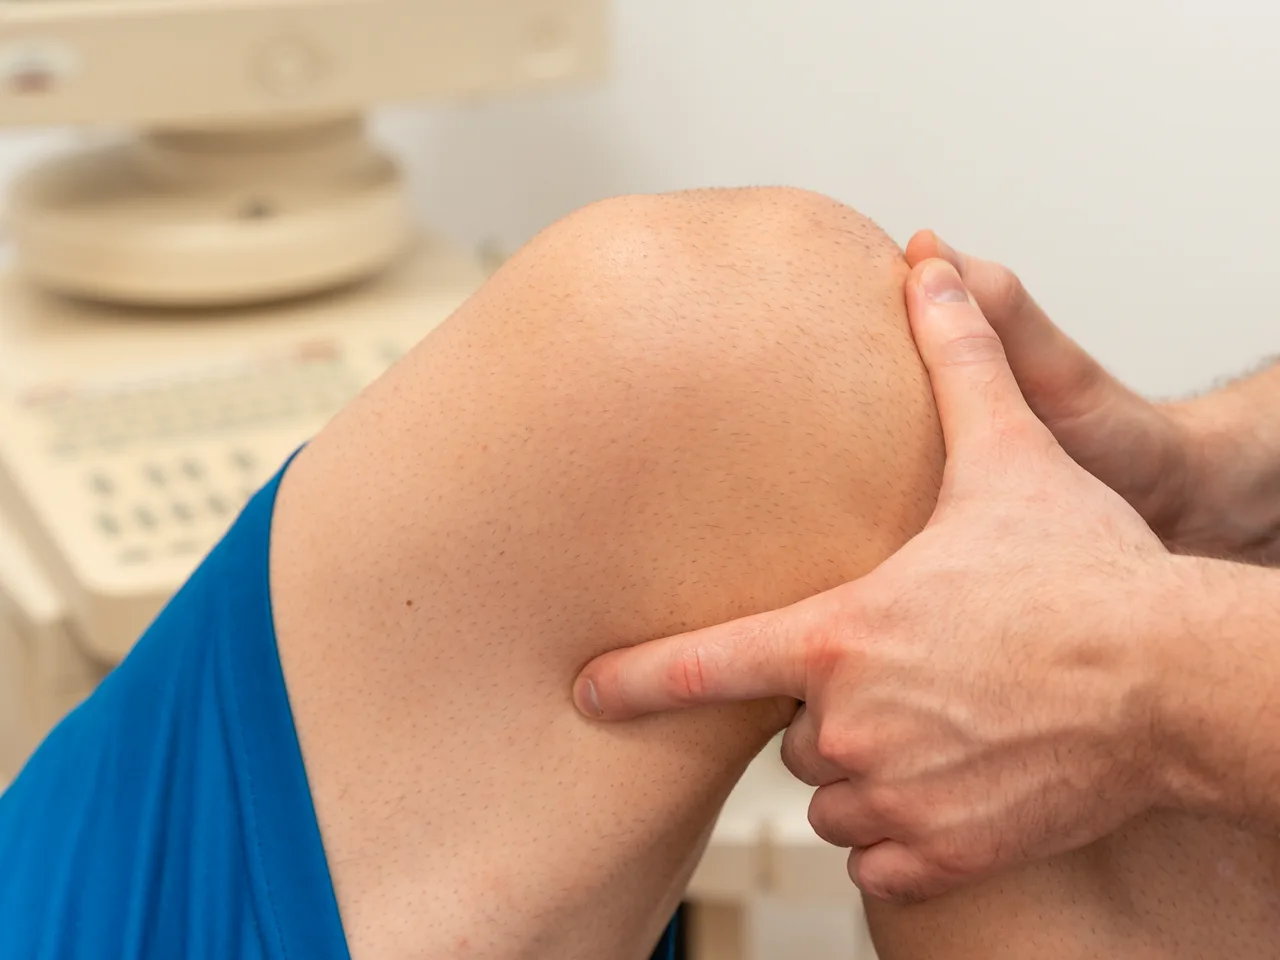
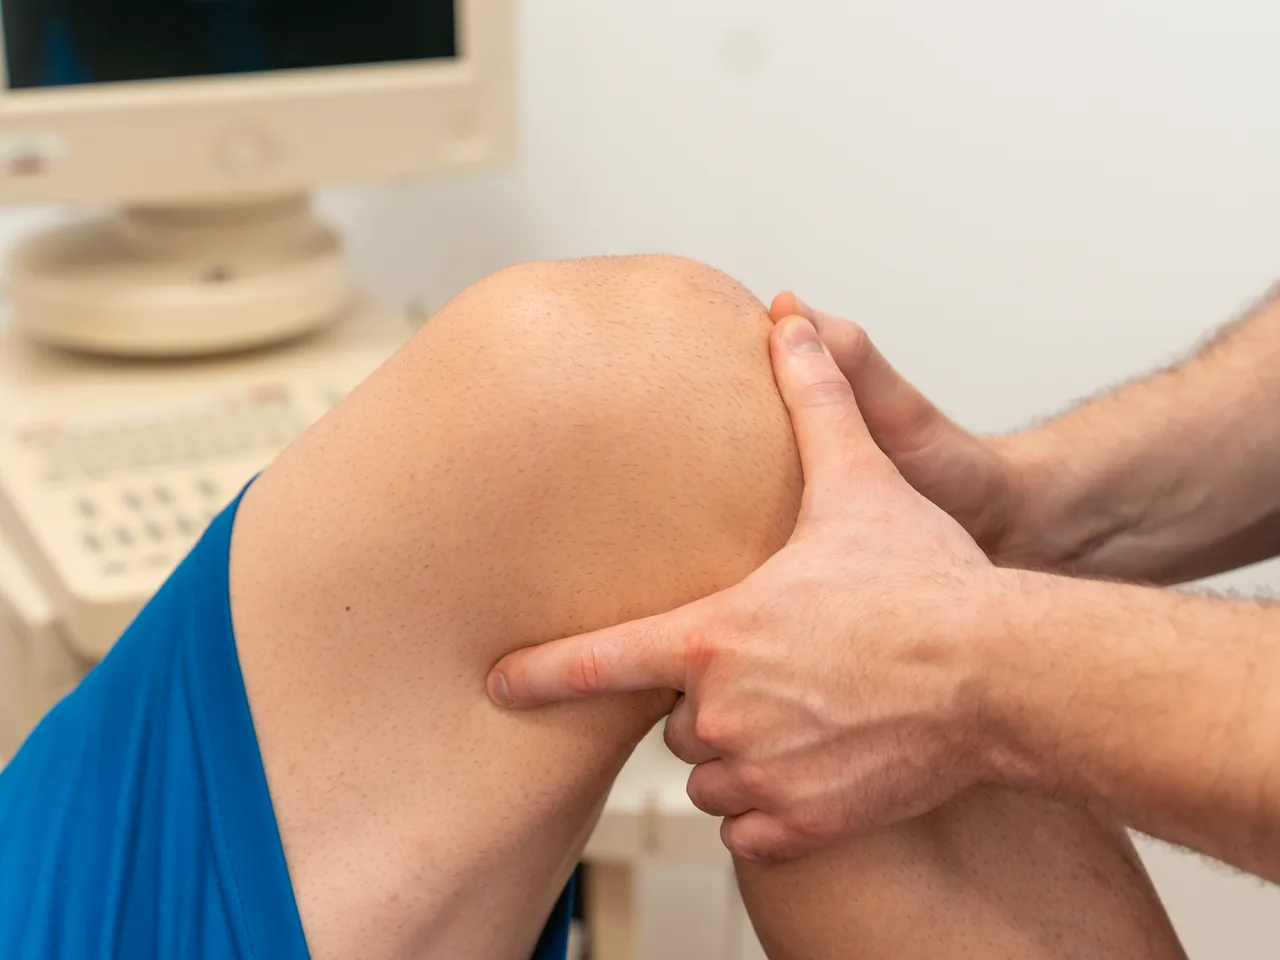
v15: panel dijagnostike na pun kadar, ispravke u README-u
panel-dijagnostika.webp preseceno iz punog kadra L-40 (4000 px) umesto
uzeg isecka od 3400 px. Provereno u kartici na 1440, 1200, 860 i 390 px.

Ispravljen razlog za "Sedam procedura" -> "Sest procedura": nije u tome
sta centar radi, nego u tome da naslov broji magnetoterapiju koje nema
od v14, a sedmu karticu ("Ne morate da znate", poziv na akciju) broji
kao proceduru.

Zapisano odakle su dosle pogresne dimenzije na panelu (SEO faza 0,
width/height procitani sa diska bez provere da JS menja src) i kako se
kartica panela ponasa po sirinama: odnos ide od 0,75 do 1,51, pa se od
slike vidi izmedju 56% i 98%.

diff --git a/v15/README.md b/v15/README.md
@@ -3589,10 +3589,16 @@ hero te iste stranice.
 
 ### Dve greške nađene usput
 
-**1. Naslov je tvrdio sedam procedura, a ima ih šest.** `v13` je imao karticu
-Magnetoterapija, `v14` ju je uklonio, naslov je ostao. Klijent je potvrdio da
-centar **ne radi magnetoterapiju**, pa je naslov promenjen u
-„**Šest procedura.**" Kartica se ne vraća.
+**1. Naslov je tvrdio sedam procedura, a ima ih šest.** U mreži zaista stoji
+sedam `<article class="method">`, ali sedma („Ne morate da znate") je **poziv
+na akciju, ne procedura** — stvarnih procedura ima šest. Naslov je napisan dok
+je sedma kartica bila **Magnetoterapija**. Klijent je tražio da se izbaci,
+kartica je uklonjena u `v14`, a naslov nije prepravljen uz nju — pa je netačna
+brojka stajala i u `v14` i u `v15`. Sada je „**Šest procedura.**"
+
+Brojka, dakle, nije pala zato što centar ne radi magnetoterapiju; pala je zato
+što je naslov ostao da broji karticu koje odavno nema, a sedmu karticu koja
+postoji broji kao proceduru iako to nije. Kartica se ne vraća.
 
 **2. Pregled panela na naslovnoj nije se poklapao sa aktivnom stavkom.**
 `activateService` u `app.js` izlazi odmah ako stavka već ima `is-active`, pa
@@ -3602,6 +3608,49 @@ drugu stavku i nazad prikazao bi `panel-dijagnostika.webp`. Uz to je `<img>`
 deklarisao `width="1280" height="1600"` (4:5), a **sve** panel slike su 4:3 —
 pa je okvir menjao odnos čim JS zameni sliku. Sada početni `src`, `alt` i
 dimenzije odgovaraju aktivnoj stavci (`panel-dijagnostika.webp`, 1280×960).
+
+**Odakle pogrešne dimenzije:** `width` i `height` su na taj `<img>` dodati u
+**SEO fazi 0**, zbog CLS-a, i pročitani iz fajla koji je tada stajao u `src`-u
+— bez provere da JS tu sliku menja u letu. Atribut je zato opisivao samo prvu
+sliku, ne i one koje dolaze posle nje. Pouka: pre nego što se `width`/`height`
+prepišu sa diska, proveri da li išta menja `src` u toku rada stranice.
+
+### Kartica panela menja odnos sa širinom — slika mora da to preživi
+
+Izmereno na šest širina. Kartica nije samo manja ili veća: ona se **preokreće
+iz uspravne u položenu**, pa `object-fit: cover` odseca čas bokove, čas vrh i
+dno.
+
+| Širina | Kartica | Odnos | Od slike se vidi |
+|---|---|---|---|
+| 1440 | 669×752 | 0,89 | 67% širine |
+| **1200** | 566×752 | **0,75** | **56% širine** ← najuže |
+| 1000 | 920×608 | 1,51 | 88% visine |
+| **860** | 791×608 | **1,30** | **98% širine** ← najšire |
+| 720 | 680×496 | 1,37 | 97% visine |
+| 390 | 350×432 | 0,81 | 61% širine |
+
+Odnos ide od 0,75 do 1,51 — **duplo**. Zato se slika za ovaj panel ne bira po
+tome kako izgleda na 1440.
+
+**Šta iz toga sledi za sadržaj slike:** `cover` seče **simetrično oko centra**.
+Sve što treba da se vidi na svakoj širini mora da stane u **srednjih 56%**
+širine slike. Predmet uz ivicu kadra nestaje prvi.
+
+Isprobana su četiri isečka iz `L-40`, svaki renderovan u kartici: 3400 px,
+3800 px, 4000 px (pun kadar) i jedan uži kod koga je desna strana odsečena da
+bi se aparat pomerio ka sredini. **Na 1200 sva četiri izgledaju isto** — od
+ultrazvučnog aparata ostaje bleda mrlja gore levo. Razlog je što aparat u
+`L-40` stoji uz samu levu ivicu, pa ga svaki simetričan rez pojede; uži isečak
+ga ne spasava nego samo uveća koleno.
+
+Uzet je **pun kadar (4000 px)**: na 860, 1000 i 720 px aparat se vidi ceo, na
+1440 delimično, a na 1200 i 390 ne vidi se ni kod jedne varijante — pa tu ništa
+i ne gubi u odnosu na uže isečke. Kartica na tim širinama nosi krupan plan
+kolena sa rukama terapeuta, što je i dalje tačan prikaz pregleda.
+
+Ako se ikad bude tražilo da se aparat vidi i na 1200, to se ne rešava isecanjem
+nego **drugim kadrom** — treba snimak na kome aparat stoji bliže sredini.
 
 ### Tri prazne kartice ostaju prazne
 

diff --git a/v15/NASTAVAK.md b/v15/NASTAVAK.md
@@ -91,9 +91,11 @@ dobilo nove isečke (`L-40`, `L-38`, `L-8`, `L-45`, `L-64`); pun spisak sa
 izvorima je u `README.md`, odeljak „Fotografije uslužnih stranica iz
 originala".
 
-Usput ispravljeno: naslov „Sedam procedura" → „**Šest procedura**" (klijent
-potvrdio da magnetoterapije nema), i početna slika pregleda panela na
-naslovnoj koja se nije poklapala sa aktivnom stavkom.
+Usput ispravljeno: naslov „Sedam procedura" → „**Šest procedura**", i početna
+slika pregleda panela na naslovnoj koja se nije poklapala sa aktivnom stavkom.
+Naslov je brojao magnetoterapiju, koja je izbačena još u `v14`, a sedmu karticu
+(„Ne morate da znate", poziv na akciju) brojao je kao proceduru. Razlog nije
+bio u tome šta centar radi, nego u tome šta na stranici stvarno piše.
 
 **Tri kartice i dalje ostaju bez fotografije** — magnetoterapija (više i ne
 postoji kao kartica), krioterapija, limfna drenaža. Provereno i na
